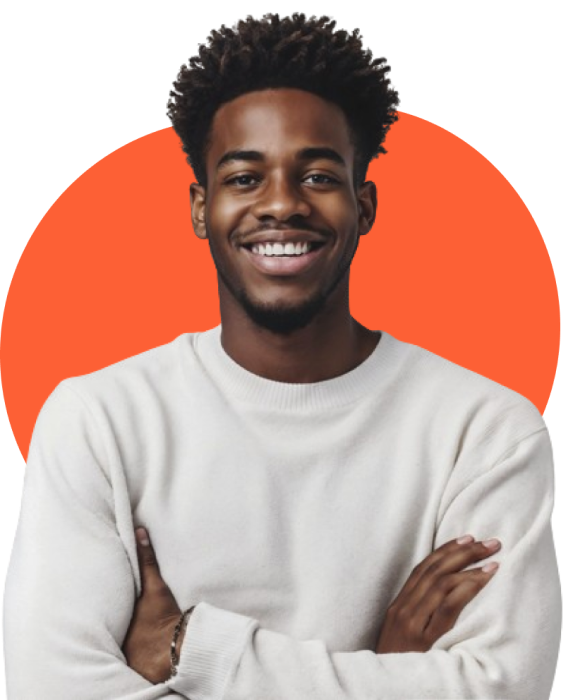
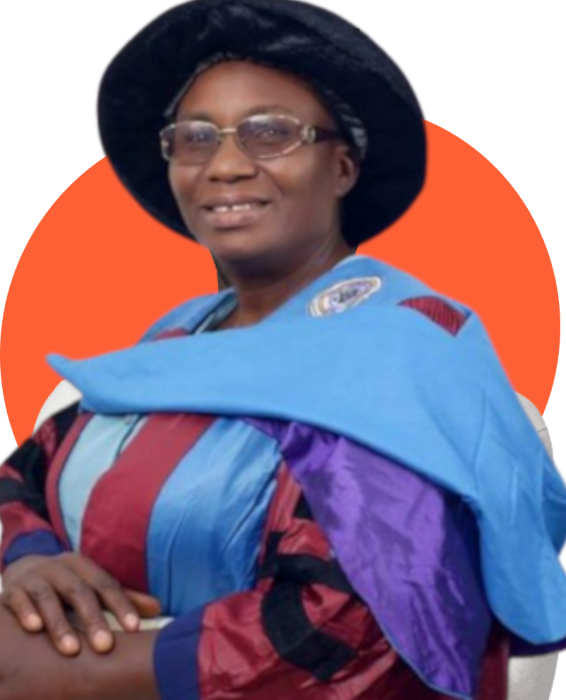
s

diff --git a/index.html b/index.html
@@ -122,7 +122,7 @@
                     </div>
                     <div class="clearfix" data-aos="fade-up" data-aos-delay="100">
                         <h3 class="stroke-text d-inline-block mb-4 display-2 fw-bold">
-                            Kelvin Matthew
+                            Prof. Obunadike Georgina Nkolika
                         </h3>
                     </div>
                     <div class="clearfix" data-aos="fade-up" data-aos-delay="200">
